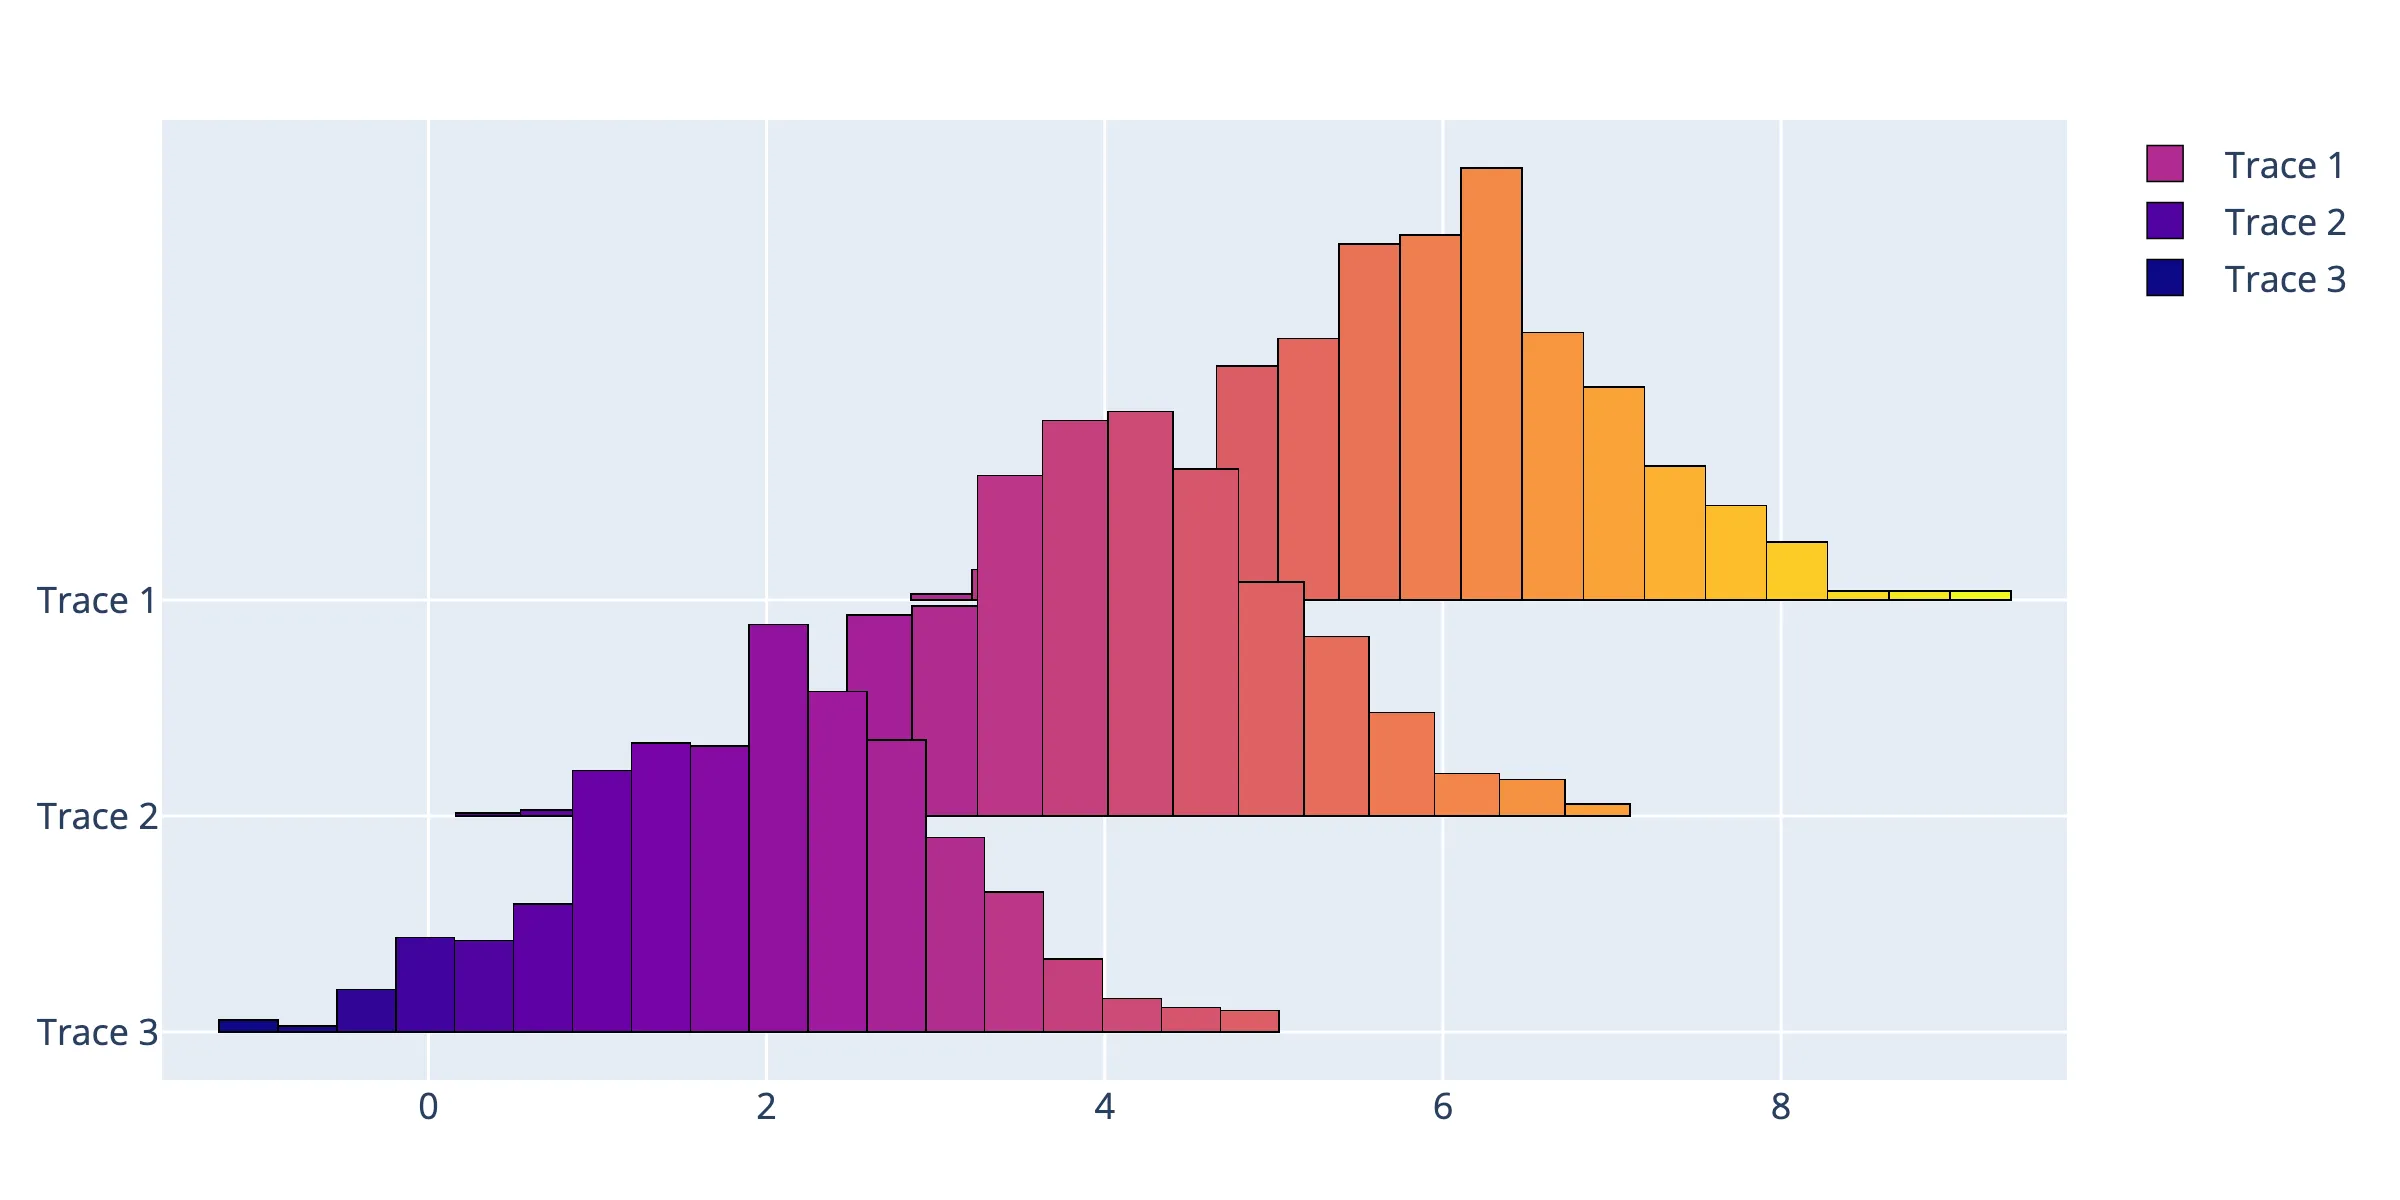
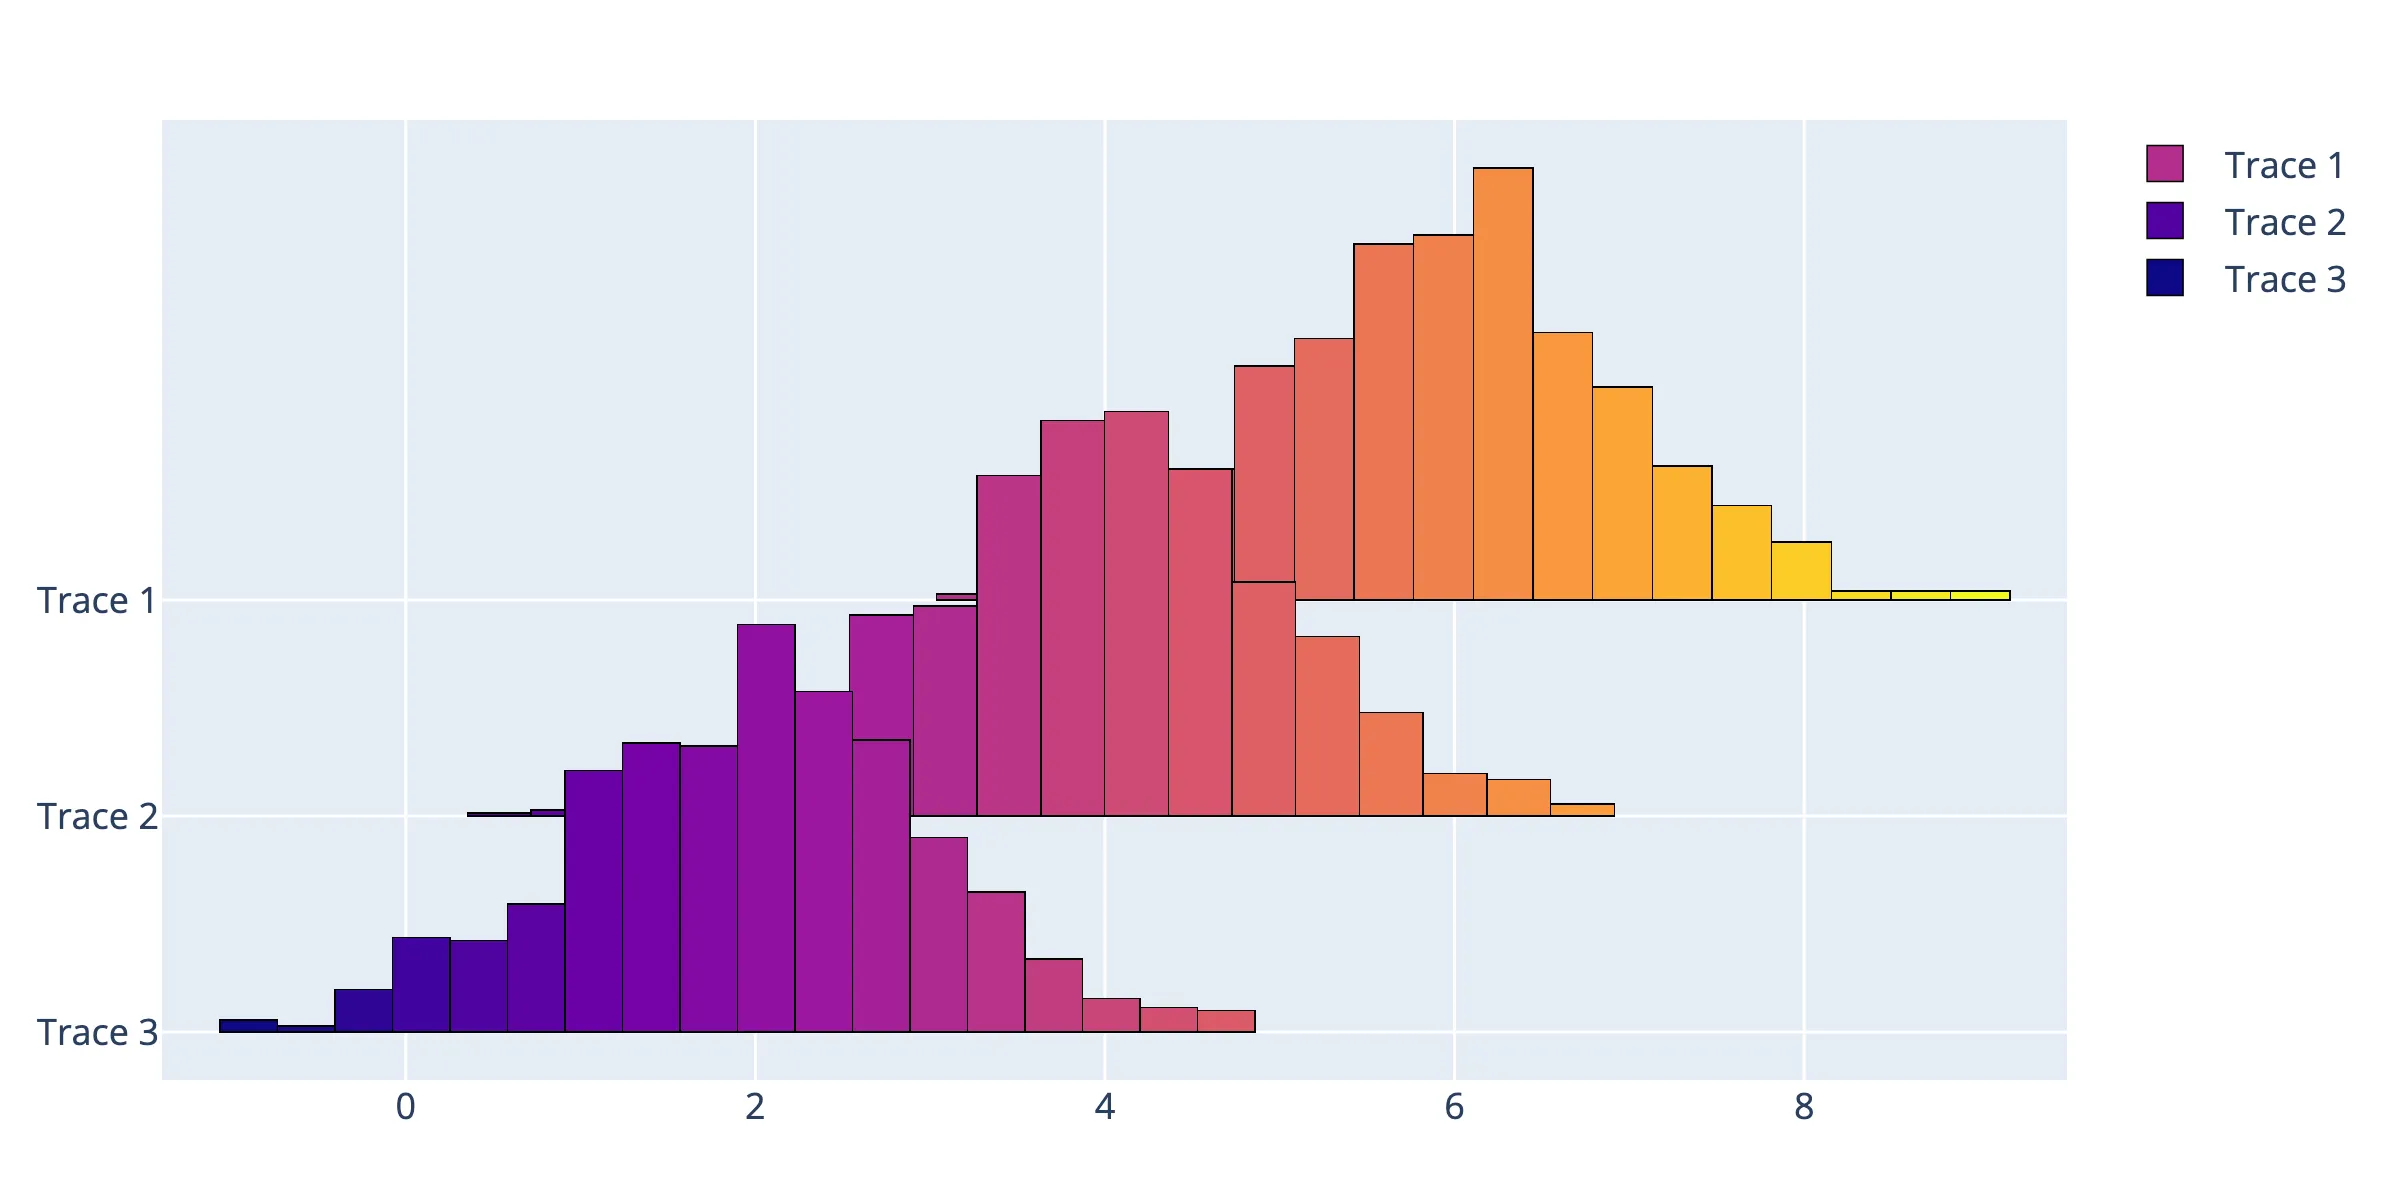
Update hist bin centers algorithm

diff --git a/src/ridgeplot/_hist.py b/src/ridgeplot/_hist.py
@@ -34,9 +34,9 @@ def bin_trace_samples(
             raise ValueError("The weights array should have the same length as the samples array.")
         if not np.isfinite(weights).all():
             raise ValueError("The weights array should not contain any infs or NaNs.")
-    hist, bins = np.histogram(trace_samples, bins=nbins, weights=weights)
-    bin_midpoints = np.linspace(bins[0], bins[-1], nbins)
-    return [(float(x), float(y)) for x, y in zip(bin_midpoints, hist, strict=True)]
+    hist_counts, hist_edges = np.histogram(trace_samples, bins=nbins, weights=weights)
+    bin_centers = 0.5 * (hist_edges[:-1] + hist_edges[1:])
+    return [(float(x), float(y)) for x, y in zip(bin_centers, hist_counts, strict=True)]
 
 
 def bin_samples(

diff --git a/tests/unit/test_hist.py b/tests/unit/test_hist.py
@@ -12,7 +12,11 @@ from ridgeplot._hist import (
 
 SAMPLES_IN = [1, 2, 2, 3, 4]
 NBINS = 4
-DENSITIES_OUT = [(1, 1), (2, 2), (3, 1), (4, 1)]
+# NOTE: The x values in DENSITIES_OUT correspond to the centers of
+#       equally spaced bins over the range [1, 4].
+#       This can be counterintuitive for count data, as the bins
+#       do not align with the integer sample values.
+DENSITIES_OUT = [(1.375, 1), (2.125, 2), (2.875, 1), (3.625, 1)]
 X_OUT, Y_OUT = zip(*DENSITIES_OUT, strict=True)
 
 WEIGHTS = [1, 1, 1, 1, 9]

diff --git a/docs/reference/changelog.md b/docs/reference/changelog.md
@@ -7,7 +7,7 @@ Unreleased changes
 
 ### Bug fixes
 
-- Fix the way histogram bin midpoints are computed ({gh-pr}`364`)
+- Fix the way histogram bin centers are computed ({gh-pr}`364`)
 
 ### Documentation
 
